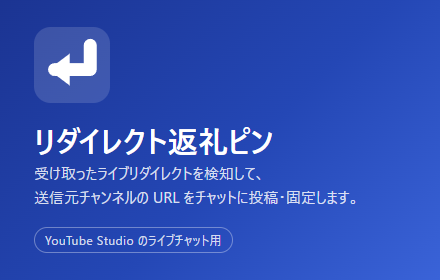
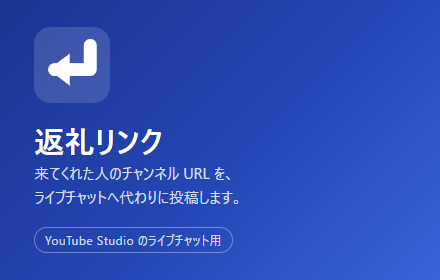
拡張の表示名を「返礼リンク」に変える (#67)
引き金がリダイレクト以外にも増え、コメント返しでは固定もしないため、
旧名「リダイレクト返礼ピン」は機能の半分しか指していなかった。

変えたのは表示名だけ。リポジトリ名・ZIP 名・ログの [yt-redirect-pin]・
DOM の id はそのまま。manifest の key があるので拡張 ID も変わらず、
利用者の設定は消えない。

説明ページの画像 4 枚も撮り直した。スクリーンショット 2・3 は 0.2.0 時点の
UI のままで、自由文・コメント返し・辞書の畳み表示・⚠ 印が写っていなかった。
3 枚目の alt/figcaption が画像と食い違っていたのも直した。

Changed region(s): [[0.0591, 0.6, 0.8273, 0.7429], [0.0591, 0.4571, 0.6205, 0.5714]]

diff --git a/docs/index.html b/docs/index.html
@@ -3,16 +3,16 @@
   <head>
     <meta charset="utf-8" />
     <meta name="viewport" content="width=device-width, initial-scale=1" />
-    <title>yt-redirect-pin — ライブリダイレクトの返礼を自動化する Chrome 拡張</title>
+    <title>返礼リンク — 来てくれた人のチャンネル URL をチャットに投稿する Chrome 拡張</title>
     <meta
       name="description"
-      content="YouTube のライブ配信で受け取ったライブリダイレクトを検知し、送信元チャンネルの URL をライブチャットへ投稿して固定する Chrome 拡張 (MV3)。"
+      content="YouTube のライブ配信で受け取ったライブリダイレクトや、登録した人のコメントを検知して、その人のチャンネル URL をライブチャットへ投稿する Chrome 拡張 (MV3)。"
     />
     <meta property="og:type" content="website" />
-    <meta property="og:title" content="yt-redirect-pin" />
+    <meta property="og:title" content="返礼リンク (yt-redirect-pin)" />
     <meta
       property="og:description"
-      content="ライブリダイレクトを検知して、送信元チャンネルの URL をチャットに投稿・固定する Chrome 拡張。"
+      content="来てくれた人のチャンネル URL を、ライブチャットへ代わりに投稿する Chrome 拡張。"
     />
     <!-- OG のクローラは絶対 URL でないと解決しないものが多い -->
     <meta property="og:url" content="https://max-enterme.github.io/yt-redirect-pin/" />
@@ -194,10 +194,10 @@
           />
           <path d="M19 56 L47 35 V77 Z" fill="#fff" />
         </svg>
-        <h1>yt-redirect-pin</h1>
+        <h1>返礼リンク</h1>
         <p class="tagline">
-          ライブリダイレクトを受け取ったら、送信元チャンネルの URL を<br />
-          チャットに投稿して固定する Chrome 拡張。
+          ライブリダイレクトを受け取ったとき、登録した人がコメントしたとき —<br />
+          その人のチャンネル URL をチャットに投稿する Chrome 拡張。
         </p>
         <div class="cta">
           <a class="btn btn-primary" href="https://github.com/max-enterme/yt-redirect-pin/releases/latest"
@@ -350,11 +350,12 @@
           width="1280"
           height="800"
           loading="lazy"
-          alt="呼び名の辞書の表。ハンドル・呼び名・自由文 ({msg}) の列が行ごとに並び、自由文の欄の下に投稿文全体に対する残り字数が出ている。末尾に新規登録用の入力欄がある"
+          alt="呼び名の辞書の表。ハンドルと呼び名の行が並び、各行は畳まれていて三角印で開くと自由文などが出る。チャンネル ID を取得できていない行は色が付き ⚠ が出ている。末尾に新規登録用の入力欄がある"
         />
         <figcaption>
           リダイレクトを受けた相手は自動で載る (呼び名も自由文も空のまま)。
-          自由文の下の「残り N 字」は<b>投稿文全体</b>に対する残り
+          行を開くと自由文やコメント返しの設定が出る。<b>⚠ の行はコメントに反応しない</b>
+          (チャンネル ID が取れていない)
         </figcaption>
       </figure>
 

diff --git a/public/options.html b/public/options.html
@@ -2,7 +2,7 @@
 <html lang="ja">
   <head>
     <meta charset="utf-8" />
-    <title>リダイレクト返礼ピン 設定</title>
+    <title>返礼リンク 設定</title>
     <style>
       body {
         font: 14px/1.7 system-ui, sans-serif;
@@ -73,7 +73,7 @@
     </style>
   </head>
   <body>
-    <h1>リダイレクト返礼ピン 設定</h1>
+    <h1>返礼リンク 設定</h1>
 
     <p class="warn">
       この拡張は <strong><code>studio.youtube.com</code> のライブ管制室のチャットでしか動きません。</strong>

diff --git a/docs/setup-and-verify.md b/docs/setup-and-verify.md
@@ -1,6 +1,6 @@
 # 導入手順と動作確認
 
-対象: yt-redirect-pin (Chrome 拡張 / MV3)。実装は T2–T7 まで。
+対象: 返礼リンク (yt-redirect-pin / Chrome 拡張 / MV3)。実装は T2–T7 まで。
 
 > ⚠ **spec.md D3(自動投稿の是非)は決着した** — グレーであることを開示した上で GitHub 配布する
 > ([d3-automation-policy.md](d3-automation-policy.md))。自動投稿に不安があるなら、
@@ -48,14 +48,14 @@ npm run typecheck && npx vitest run
 1. `chrome://extensions` を開く
 2. 右上の **デベロッパーモード** を ON
 3. **「パッケージ化されていない拡張機能を読み込む」** → このリポジトリの `dist/` を選ぶ
-4. カードに **「リダイレクト返礼ピン」** が出れば読み込み完了
+4. カードに **「返礼リンク」** が出れば読み込み完了
 
 **コードを直したら `npm run build` → `chrome://extensions` のカードの ⟳(更新)を押す。**
 押し忘れると古いコードが動き続ける。
 
 ## 3. 設定
 
-`chrome://extensions` の「リダイレクト返礼ピン」 → **詳細** → **拡張機能のオプション**(別タブで開く)。
+`chrome://extensions` の「返礼リンク」 → **詳細** → **拡張機能のオプション**(別タブで開く)。
 
 | 項目 | 内容 | 既定 |
 |---|---|---|

diff --git a/docs/install.md b/docs/install.md
@@ -23,7 +23,7 @@
 5. 右上の **「デベロッパー モード」** を ON にする
 6. 左上の **「パッケージ化されていない拡張機能を読み込む」** を押す
 7. **`manifest.json` が入っているフォルダ**を選ぶ
-8. **「リダイレクト返礼ピン」** のカードが出れば完了
+8. **「返礼リンク」** のカードが出れば完了
 
 ### 求められる許可について
 
@@ -52,7 +52,7 @@
 **設定・呼び名の辞書・投稿履歴は引き継がれます。**書き写す必要はありません。
 
 1. 新しい ZIP を展開する(**古いフォルダとは別の場所で構いません**)
-2. `chrome://extensions` で**古い「リダイレクト返礼ピン」を削除**する
+2. `chrome://extensions` で**古い「返礼リンク」を削除**する
 3. 「パッケージ化されていない拡張機能を読み込む」で**新しいフォルダ**を選ぶ
 4. 版が上がっていることをカードで確認する
 

diff --git a/CHANGELOG.md b/CHANGELOG.md
@@ -20,6 +20,11 @@
 
 ### 変更
 
+- **拡張の表示名を「リダイレクト返礼ピン」から「返礼リンク」に変えた。**
+  引き金がリダイレクト以外にも増え、コメント返しでは固定もしないため、
+  旧名は機能の半分しか指していなかった。**変えたのは表示名だけ**で、
+  リポジトリ名・ZIP 名・ログの `[yt-redirect-pin]` はそのまま。
+  `key` があるので**拡張 ID は変わらず、設定は消えない**
 - **`host_permissions` に `https://www.youtube.com/*` が増えた。**
   **インストール時の許可表示が変わる。**用途は**設定画面から 1 回チャンネル ID を取りに行く**ことだけで、
   **注入範囲は増えていない**(content script は `studio.youtube.com/live_chat*` のまま)。

diff --git a/README.md b/README.md
@@ -1,4 +1,4 @@
-# yt-redirect-pin
+# 返礼リンク (yt-redirect-pin)
 
 **YouTube のライブ配信で他チャンネルからライブリダイレクトを受け取ったとき、送信元チャンネルの
 URL をライブチャットへ投稿して固定する Chrome 拡張 (MV3)。**

diff --git a/docs/privacy-policy.md b/docs/privacy-policy.md
@@ -1,4 +1,4 @@
-# プライバシーポリシー — リダイレクト返礼ピン (yt-redirect-pin)
+# プライバシーポリシー — 返礼リンク (yt-redirect-pin)
 
 最終更新: 2026-08-16
 
